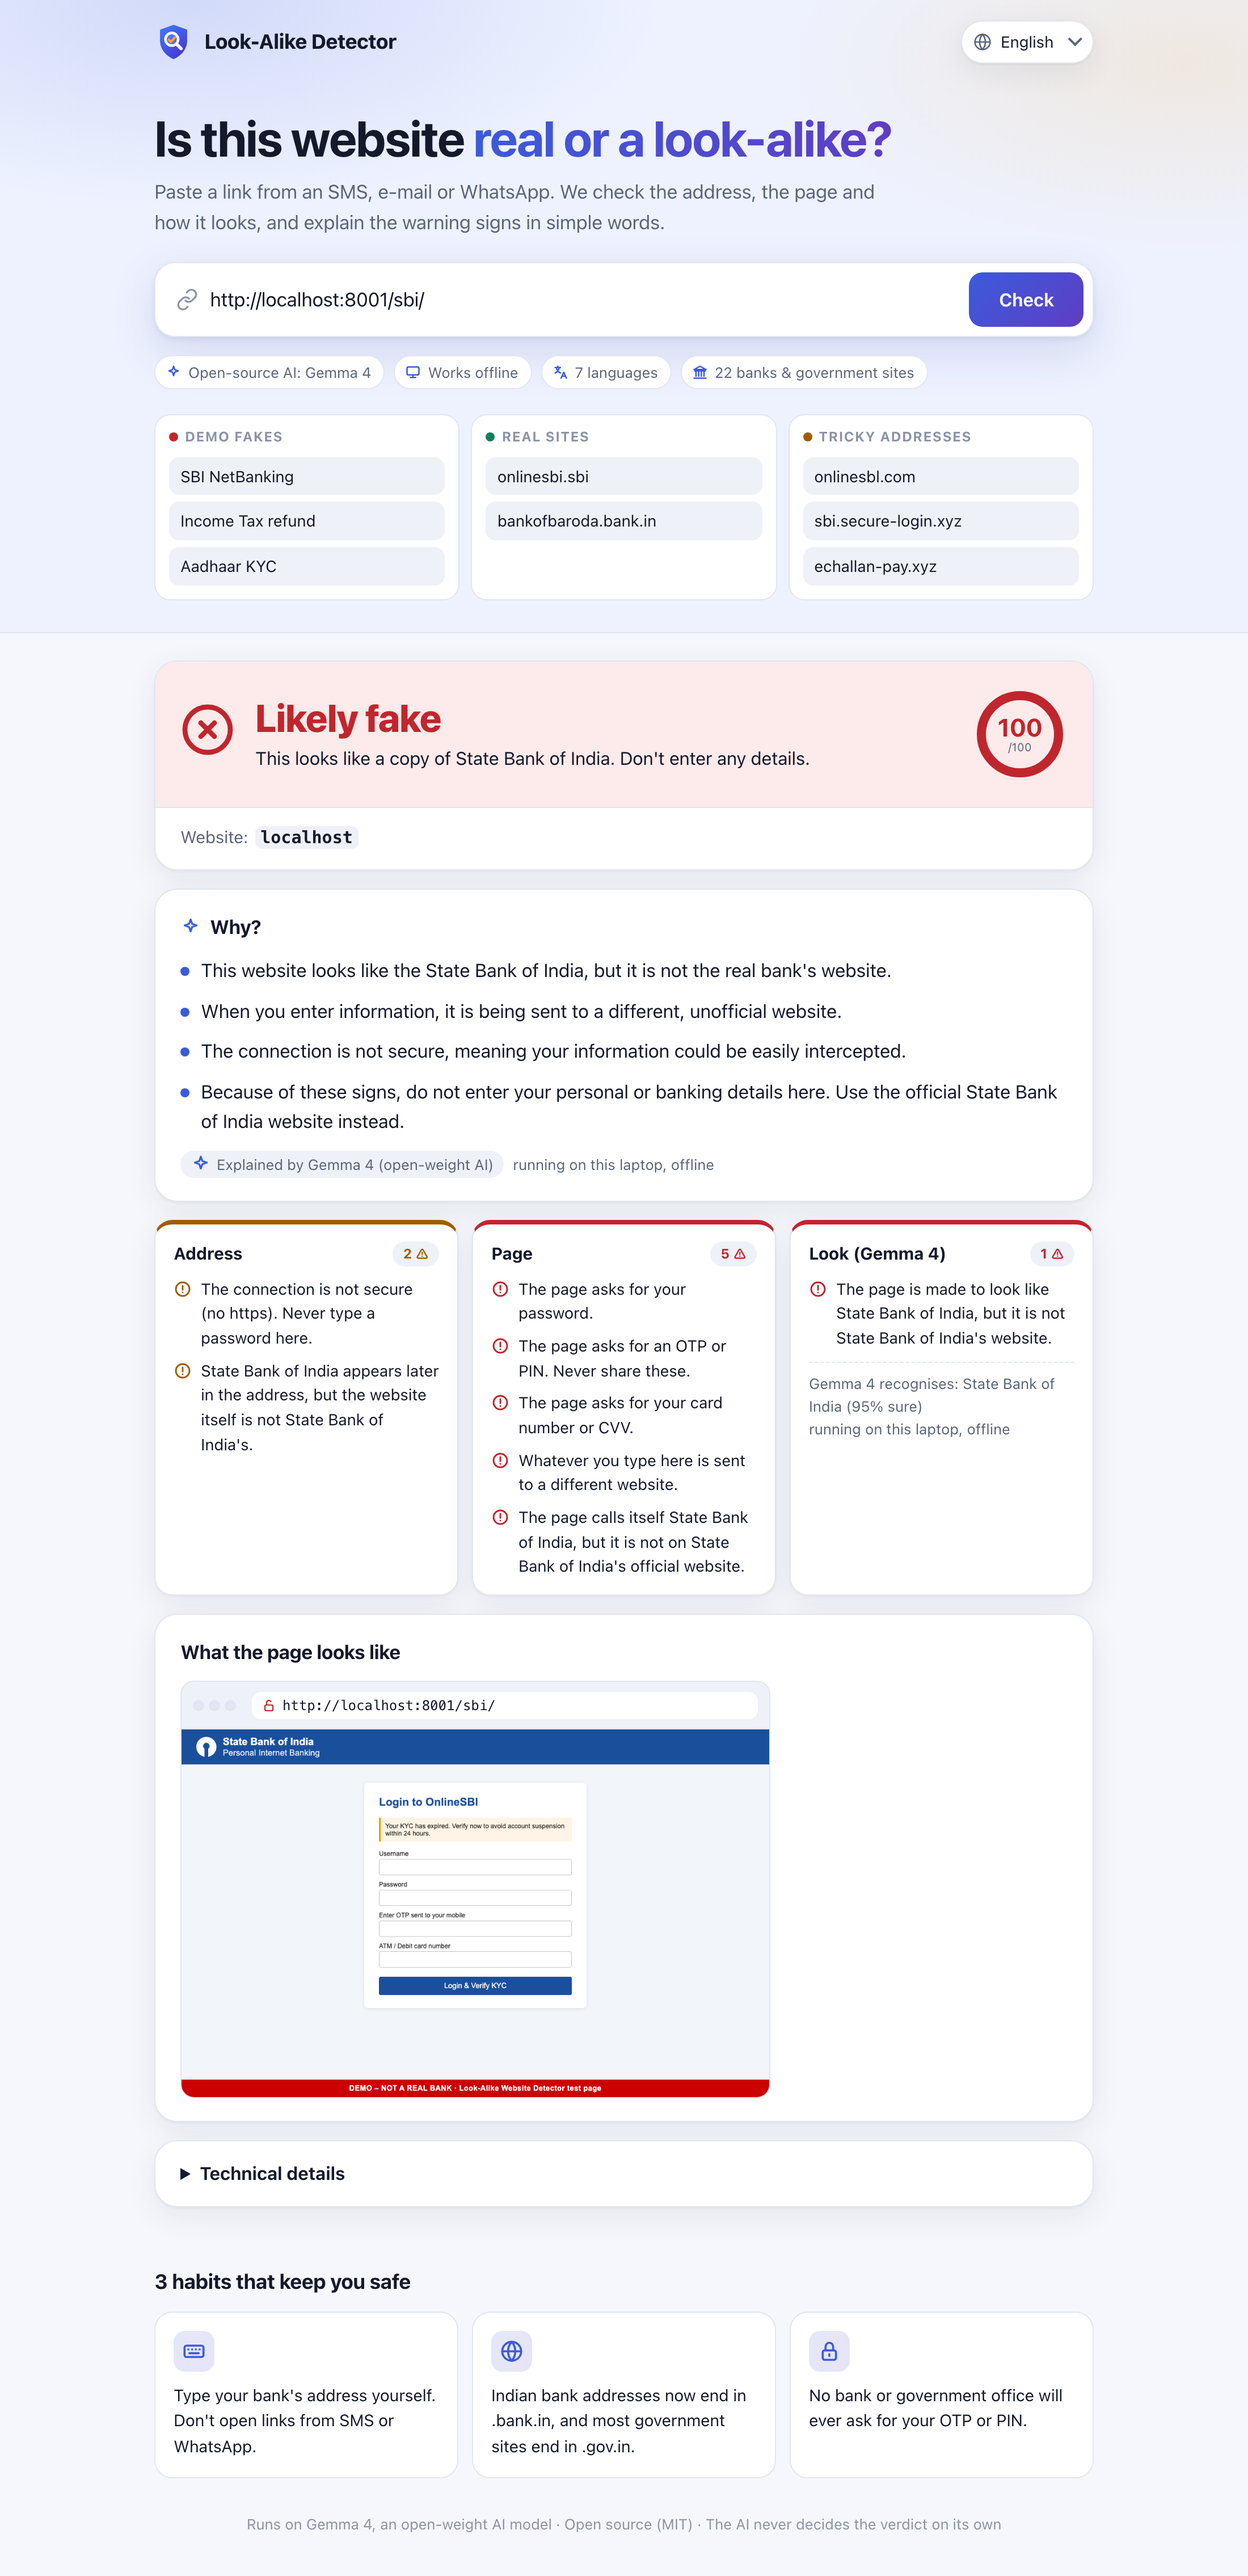
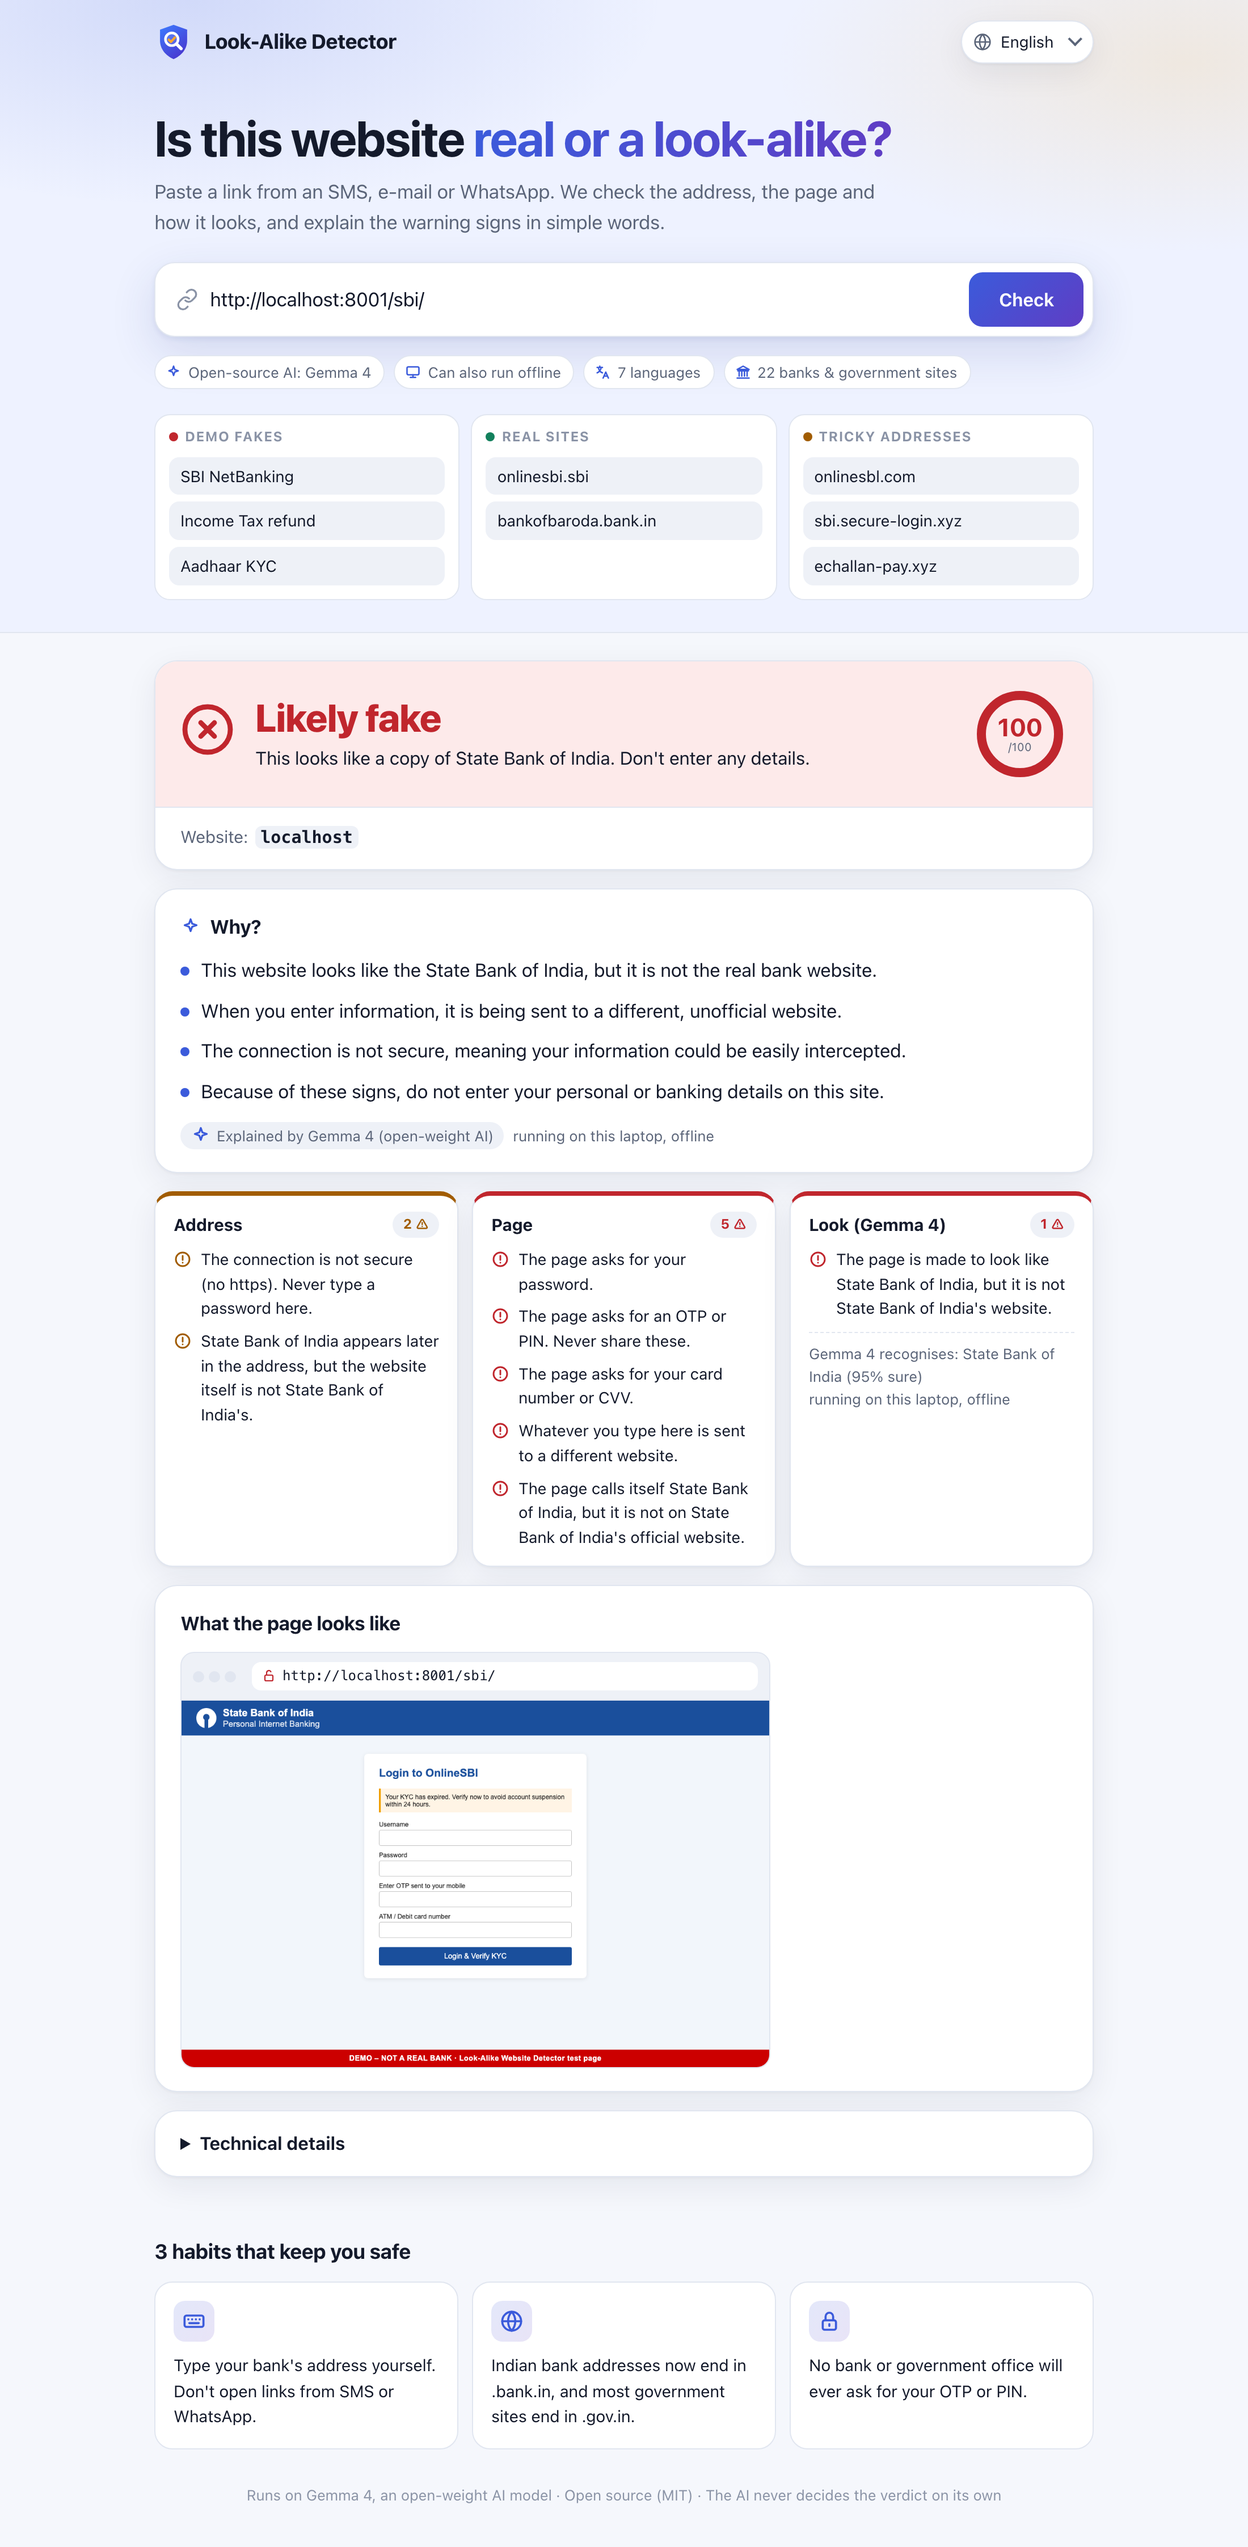
README: complete project layout and tools list, refresh hero screenshot

diff --git a/README.md b/README.md
@@ -131,14 +131,18 @@ detector/
   analyze.py         runs all checks, collects skipped ones
   verdict.py         risk score → verdict (rules only)
   explain.py         Gemma 4 plain-language bullets + translated fallback text
-  data/fallback_text.json  every finding as a plain sentence in all 7 languages
   llm.py             the one place that calls the model (VISION_BACKEND: gemini or ollama)
-  server.py          FastAPI app + JSON API
+  server.py          FastAPI app + JSON API (rate limits in public mode)
   data/brands.json   brands → official domains, names, logo hints
+  data/fallback_text.json  every finding as a plain sentence in all 7 languages
 web/index.html       single-page UI (vanilla JS, 7 languages, light and dark mode)
 web/logo.svg         logo and browser-tab icon
 demo_sites/          fake look-alike pages for the demo (localhost only)
-tests/               pytest suite
+tests/               pytest suite (no network or API key needed)
+run_demo.sh          start the demo pages + web app on a laptop with one command
+Dockerfile           public website build (PUBLIC_MODE=1, Gemini backend)
+render.yaml          Render blueprint for the free deployment
+deploy/              Hugging Face Space deploy script (needs PRO)
 ```
 
 ## Models, tools and libraries
@@ -157,9 +161,12 @@ tests/               pytest suite
 | tldextract | Split hosts into subdomain / domain / ending | BSD-3-Clause |
 | python-whois | Domain age lookup | MIT |
 | Beautiful Soup 4 | Parse the page HTML | MIT |
-| httpx | HTTP client (used by the API test client) | BSD-3-Clause |
+| httpx | HTTP client (Ollama backend, API test client) | BSD-3-Clause |
 | python-dotenv | Load settings from `.env` | BSD-3-Clause |
 | pytest | Tests | MIT |
+| Render | Hosting for the live demo (free plan) | Proprietary service ([Render Terms](https://render.com/terms)) |
+| Docker image `python:3.12-slim` | Base image for the public build | Python: PSF License; Debian packages: various open-source licenses |
+| huggingface_hub | Optional Hugging Face deploy script (not needed to run the app: `pip install huggingface_hub`) | Apache 2.0 |
 
 This project's own code is released under the [MIT License](LICENSE).
 
